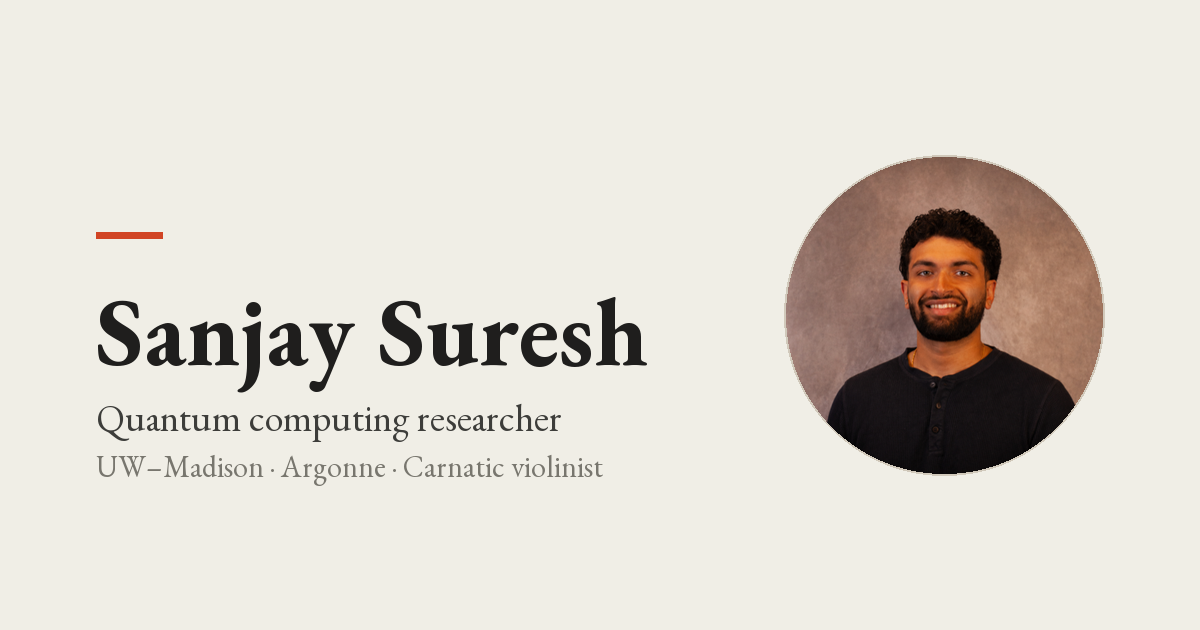
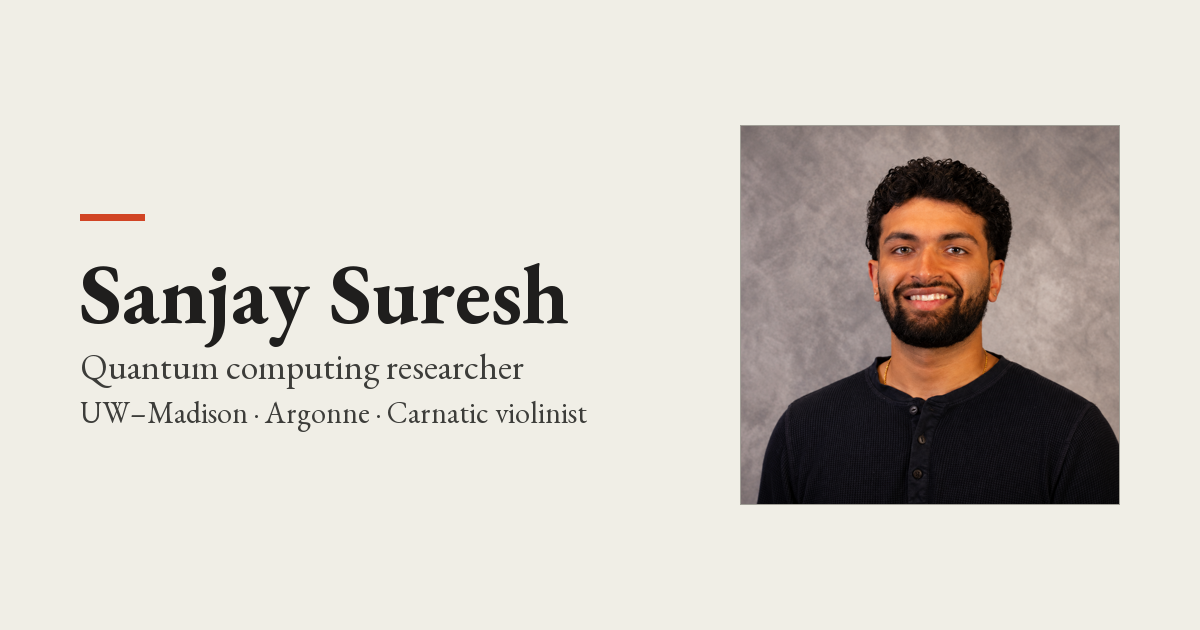
Fix mobile nav (real hamburger toggle for the tree) + regenerate OG image with new headshot; v137

diff --git a/index.html b/index.html
@@ -1,7 +1,7 @@
 <!DOCTYPE html>
 <html lang="en">
 <head>
-  <script>(function(){try{var t=localStorage.getItem('theme')||(window.matchMedia&&window.matchMedia('(prefers-color-scheme:dark)').matches?'dark':'light');document.documentElement.setAttribute('data-theme',t);}catch(e){}})();function setTheme(t){document.documentElement.setAttribute('data-theme',t);try{localStorage.setItem('theme',t);}catch(e){}}function treeKey(n){var a=n.querySelector(':scope > .tree-row > .tree-link');return a?a.getAttribute('href'):null;}function treeSave(){var o=[];document.querySelectorAll('.tree-node.open').forEach(function(n){var k=treeKey(n);if(k)o.push(k);});try{localStorage.setItem('treeOpen',JSON.stringify(o));}catch(e){}}function treeToggle(el){var n=el.closest('.tree-node');if(n){n.classList.toggle('open');treeSave();}}document.addEventListener('DOMContentLoaded',function(){var here=location.pathname;if(here==='/index.html')here='/';var saved=null;try{saved=JSON.parse(localStorage.getItem('treeOpen'));}catch(e){}if(saved&&saved.length){document.querySelectorAll('.tree-node').forEach(function(n){var k=treeKey(n);if(k&&saved.indexOf(k)!==-1)n.classList.add('open');});}else{var r=document.querySelector('.tree > ul > .tree-node');if(r)r.classList.add('open');var ls=document.querySelectorAll('.tree-link'),i;for(i=0;i<ls.length;i++){if(ls[i].getAttribute('href').split('#')[0]===here){var n=ls[i].closest('.tree-node');while(n){n.classList.add('open');n=n.parentElement?n.parentElement.closest('.tree-node'):null;}break;}}treeSave();}var l2=document.querySelectorAll('.tree-link'),j;for(j=0;j<l2.length;j++){if(l2[j].getAttribute('href').split('#')[0]===here){l2[j].classList.add('active');break;}}});</script>
+  <script>(function(){try{var t=localStorage.getItem('theme')||(window.matchMedia&&window.matchMedia('(prefers-color-scheme:dark)').matches?'dark':'light');document.documentElement.setAttribute('data-theme',t);}catch(e){}})();function navToggle(b){var s=b.closest('.sidebar');var o=s.classList.toggle('nav-open');b.setAttribute('aria-expanded',o?'true':'false');}function setTheme(t){document.documentElement.setAttribute('data-theme',t);try{localStorage.setItem('theme',t);}catch(e){}}function treeKey(n){var a=n.querySelector(':scope > .tree-row > .tree-link');return a?a.getAttribute('href'):null;}function treeSave(){var o=[];document.querySelectorAll('.tree-node.open').forEach(function(n){var k=treeKey(n);if(k)o.push(k);});try{localStorage.setItem('treeOpen',JSON.stringify(o));}catch(e){}}function treeToggle(el){var n=el.closest('.tree-node');if(n){n.classList.toggle('open');treeSave();}}document.addEventListener('DOMContentLoaded',function(){var here=location.pathname;if(here==='/index.html')here='/';var saved=null;try{saved=JSON.parse(localStorage.getItem('treeOpen'));}catch(e){}if(saved&&saved.length){document.querySelectorAll('.tree-node').forEach(function(n){var k=treeKey(n);if(k&&saved.indexOf(k)!==-1)n.classList.add('open');});}else{var r=document.querySelector('.tree > ul > .tree-node');if(r)r.classList.add('open');var ls=document.querySelectorAll('.tree-link'),i;for(i=0;i<ls.length;i++){if(ls[i].getAttribute('href').split('#')[0]===here){var n=ls[i].closest('.tree-node');while(n){n.classList.add('open');n=n.parentElement?n.parentElement.closest('.tree-node'):null;}break;}}treeSave();}var l2=document.querySelectorAll('.tree-link'),j;for(j=0;j<l2.length;j++){if(l2[j].getAttribute('href').split('#')[0]===here){l2[j].classList.add('active');break;}}});</script>
   <meta charset="UTF-8" />
   <meta name="viewport" content="width=device-width, initial-scale=1.0" />
   <title>Sanjay Suresh</title>
@@ -16,12 +16,13 @@
   <link rel="icon" href="/favicon.svg" type="image/svg+xml" />
   <link rel="preload" href="/fonts/garamond-regular.woff2" as="font" type="font/woff2" crossorigin />
   <link rel="preload" href="/fonts/garamond-bold.woff2" as="font" type="font/woff2" crossorigin />
-  <link rel="stylesheet" href="style.css?v=136" />
+  <link rel="stylesheet" href="style.css?v=137" />
 </head>
 <body class="p-home">
 
   <!-- Top navigation -->
   <aside class="sidebar">
+      <button class="nav-toggle" type="button" aria-label="Toggle menu" aria-expanded="false" onclick="navToggle(this)"><svg viewBox="0 0 24 24" width="22" height="22" fill="none" stroke="currentColor" stroke-width="2" stroke-linecap="round" aria-hidden="true"><path d="M4 7h16M4 12h16M4 17h16"/></svg>Menu</button>
             <nav class="tree" aria-label="Site tree">
         <ul>
           <li class="tree-node"><div class="tree-row"><button class="tree-toggle" type="button" onclick="treeToggle(this)" aria-label="Toggle"></button><a class="tree-link" href="/">Home</a></div>

diff --git a/projects/surfacescope.html b/projects/surfacescope.html
@@ -1,7 +1,7 @@
 <!DOCTYPE html>
 <html lang="en">
 <head>
-  <script>(function(){try{var t=localStorage.getItem('theme')||(window.matchMedia&&window.matchMedia('(prefers-color-scheme:dark)').matches?'dark':'light');document.documentElement.setAttribute('data-theme',t);}catch(e){}})();function setTheme(t){document.documentElement.setAttribute('data-theme',t);try{localStorage.setItem('theme',t);}catch(e){}}function treeKey(n){var a=n.querySelector(':scope > .tree-row > .tree-link');return a?a.getAttribute('href'):null;}function treeSave(){var o=[];document.querySelectorAll('.tree-node.open').forEach(function(n){var k=treeKey(n);if(k)o.push(k);});try{localStorage.setItem('treeOpen',JSON.stringify(o));}catch(e){}}function treeToggle(el){var n=el.closest('.tree-node');if(n){n.classList.toggle('open');treeSave();}}document.addEventListener('DOMContentLoaded',function(){var here=location.pathname;if(here==='/index.html')here='/';var saved=null;try{saved=JSON.parse(localStorage.getItem('treeOpen'));}catch(e){}if(saved&&saved.length){document.querySelectorAll('.tree-node').forEach(function(n){var k=treeKey(n);if(k&&saved.indexOf(k)!==-1)n.classList.add('open');});}else{var r=document.querySelector('.tree > ul > .tree-node');if(r)r.classList.add('open');var ls=document.querySelectorAll('.tree-link'),i;for(i=0;i<ls.length;i++){if(ls[i].getAttribute('href').split('#')[0]===here){var n=ls[i].closest('.tree-node');while(n){n.classList.add('open');n=n.parentElement?n.parentElement.closest('.tree-node'):null;}break;}}treeSave();}var l2=document.querySelectorAll('.tree-link'),j;for(j=0;j<l2.length;j++){if(l2[j].getAttribute('href').split('#')[0]===here){l2[j].classList.add('active');break;}}});</script>
+  <script>(function(){try{var t=localStorage.getItem('theme')||(window.matchMedia&&window.matchMedia('(prefers-color-scheme:dark)').matches?'dark':'light');document.documentElement.setAttribute('data-theme',t);}catch(e){}})();function navToggle(b){var s=b.closest('.sidebar');var o=s.classList.toggle('nav-open');b.setAttribute('aria-expanded',o?'true':'false');}function setTheme(t){document.documentElement.setAttribute('data-theme',t);try{localStorage.setItem('theme',t);}catch(e){}}function treeKey(n){var a=n.querySelector(':scope > .tree-row > .tree-link');return a?a.getAttribute('href'):null;}function treeSave(){var o=[];document.querySelectorAll('.tree-node.open').forEach(function(n){var k=treeKey(n);if(k)o.push(k);});try{localStorage.setItem('treeOpen',JSON.stringify(o));}catch(e){}}function treeToggle(el){var n=el.closest('.tree-node');if(n){n.classList.toggle('open');treeSave();}}document.addEventListener('DOMContentLoaded',function(){var here=location.pathname;if(here==='/index.html')here='/';var saved=null;try{saved=JSON.parse(localStorage.getItem('treeOpen'));}catch(e){}if(saved&&saved.length){document.querySelectorAll('.tree-node').forEach(function(n){var k=treeKey(n);if(k&&saved.indexOf(k)!==-1)n.classList.add('open');});}else{var r=document.querySelector('.tree > ul > .tree-node');if(r)r.classList.add('open');var ls=document.querySelectorAll('.tree-link'),i;for(i=0;i<ls.length;i++){if(ls[i].getAttribute('href').split('#')[0]===here){var n=ls[i].closest('.tree-node');while(n){n.classList.add('open');n=n.parentElement?n.parentElement.closest('.tree-node'):null;}break;}}treeSave();}var l2=document.querySelectorAll('.tree-link'),j;for(j=0;j<l2.length;j++){if(l2[j].getAttribute('href').split('#')[0]===here){l2[j].classList.add('active');break;}}});</script>
   <meta charset="UTF-8" />
   <meta name="viewport" content="width=device-width, initial-scale=1.0" />
   <title>SurfaceScope · Sanjay Suresh</title>
@@ -16,11 +16,12 @@
   <link rel="icon" href="/favicon.svg" type="image/svg+xml" />
   <link rel="preload" href="/fonts/garamond-regular.woff2" as="font" type="font/woff2" crossorigin />
   <link rel="preload" href="/fonts/garamond-bold.woff2" as="font" type="font/woff2" crossorigin />
-  <link rel="stylesheet" href="../style.css?v=136" />
+  <link rel="stylesheet" href="../style.css?v=137" />
 </head>
 <body class="p-projects">
 
   <aside class="sidebar">
+      <button class="nav-toggle" type="button" aria-label="Toggle menu" aria-expanded="false" onclick="navToggle(this)"><svg viewBox="0 0 24 24" width="22" height="22" fill="none" stroke="currentColor" stroke-width="2" stroke-linecap="round" aria-hidden="true"><path d="M4 7h16M4 12h16M4 17h16"/></svg>Menu</button>
             <nav class="tree" aria-label="Site tree">
         <ul>
           <li class="tree-node"><div class="tree-row"><button class="tree-toggle" type="button" onclick="treeToggle(this)" aria-label="Toggle"></button><a class="tree-link" href="/">Home</a></div>

diff --git a/projects/studia.html b/projects/studia.html
@@ -1,7 +1,7 @@
 <!DOCTYPE html>
 <html lang="en">
 <head>
-  <script>(function(){try{var t=localStorage.getItem('theme')||(window.matchMedia&&window.matchMedia('(prefers-color-scheme:dark)').matches?'dark':'light');document.documentElement.setAttribute('data-theme',t);}catch(e){}})();function setTheme(t){document.documentElement.setAttribute('data-theme',t);try{localStorage.setItem('theme',t);}catch(e){}}function treeKey(n){var a=n.querySelector(':scope > .tree-row > .tree-link');return a?a.getAttribute('href'):null;}function treeSave(){var o=[];document.querySelectorAll('.tree-node.open').forEach(function(n){var k=treeKey(n);if(k)o.push(k);});try{localStorage.setItem('treeOpen',JSON.stringify(o));}catch(e){}}function treeToggle(el){var n=el.closest('.tree-node');if(n){n.classList.toggle('open');treeSave();}}document.addEventListener('DOMContentLoaded',function(){var here=location.pathname;if(here==='/index.html')here='/';var saved=null;try{saved=JSON.parse(localStorage.getItem('treeOpen'));}catch(e){}if(saved&&saved.length){document.querySelectorAll('.tree-node').forEach(function(n){var k=treeKey(n);if(k&&saved.indexOf(k)!==-1)n.classList.add('open');});}else{var r=document.querySelector('.tree > ul > .tree-node');if(r)r.classList.add('open');var ls=document.querySelectorAll('.tree-link'),i;for(i=0;i<ls.length;i++){if(ls[i].getAttribute('href').split('#')[0]===here){var n=ls[i].closest('.tree-node');while(n){n.classList.add('open');n=n.parentElement?n.parentElement.closest('.tree-node'):null;}break;}}treeSave();}var l2=document.querySelectorAll('.tree-link'),j;for(j=0;j<l2.length;j++){if(l2[j].getAttribute('href').split('#')[0]===here){l2[j].classList.add('active');break;}}});</script>
+  <script>(function(){try{var t=localStorage.getItem('theme')||(window.matchMedia&&window.matchMedia('(prefers-color-scheme:dark)').matches?'dark':'light');document.documentElement.setAttribute('data-theme',t);}catch(e){}})();function navToggle(b){var s=b.closest('.sidebar');var o=s.classList.toggle('nav-open');b.setAttribute('aria-expanded',o?'true':'false');}function setTheme(t){document.documentElement.setAttribute('data-theme',t);try{localStorage.setItem('theme',t);}catch(e){}}function treeKey(n){var a=n.querySelector(':scope > .tree-row > .tree-link');return a?a.getAttribute('href'):null;}function treeSave(){var o=[];document.querySelectorAll('.tree-node.open').forEach(function(n){var k=treeKey(n);if(k)o.push(k);});try{localStorage.setItem('treeOpen',JSON.stringify(o));}catch(e){}}function treeToggle(el){var n=el.closest('.tree-node');if(n){n.classList.toggle('open');treeSave();}}document.addEventListener('DOMContentLoaded',function(){var here=location.pathname;if(here==='/index.html')here='/';var saved=null;try{saved=JSON.parse(localStorage.getItem('treeOpen'));}catch(e){}if(saved&&saved.length){document.querySelectorAll('.tree-node').forEach(function(n){var k=treeKey(n);if(k&&saved.indexOf(k)!==-1)n.classList.add('open');});}else{var r=document.querySelector('.tree > ul > .tree-node');if(r)r.classList.add('open');var ls=document.querySelectorAll('.tree-link'),i;for(i=0;i<ls.length;i++){if(ls[i].getAttribute('href').split('#')[0]===here){var n=ls[i].closest('.tree-node');while(n){n.classList.add('open');n=n.parentElement?n.parentElement.closest('.tree-node'):null;}break;}}treeSave();}var l2=document.querySelectorAll('.tree-link'),j;for(j=0;j<l2.length;j++){if(l2[j].getAttribute('href').split('#')[0]===here){l2[j].classList.add('active');break;}}});</script>
   <meta charset="UTF-8" />
   <meta name="viewport" content="width=device-width, initial-scale=1.0" />
   <title>Studia · Sanjay Suresh</title>
@@ -16,11 +16,12 @@
   <link rel="icon" href="/favicon.svg" type="image/svg+xml" />
   <link rel="preload" href="/fonts/garamond-regular.woff2" as="font" type="font/woff2" crossorigin />
   <link rel="preload" href="/fonts/garamond-bold.woff2" as="font" type="font/woff2" crossorigin />
-  <link rel="stylesheet" href="../style.css?v=136" />
+  <link rel="stylesheet" href="../style.css?v=137" />
 </head>
 <body class="p-projects">
 
   <aside class="sidebar">
+      <button class="nav-toggle" type="button" aria-label="Toggle menu" aria-expanded="false" onclick="navToggle(this)"><svg viewBox="0 0 24 24" width="22" height="22" fill="none" stroke="currentColor" stroke-width="2" stroke-linecap="round" aria-hidden="true"><path d="M4 7h16M4 12h16M4 17h16"/></svg>Menu</button>
             <nav class="tree" aria-label="Site tree">
         <ul>
           <li class="tree-node"><div class="tree-row"><button class="tree-toggle" type="button" onclick="treeToggle(this)" aria-label="Toggle"></button><a class="tree-link" href="/">Home</a></div>

diff --git a/music.html b/music.html
@@ -1,7 +1,7 @@
 <!DOCTYPE html>
 <html lang="en">
 <head>
-  <script>(function(){try{var t=localStorage.getItem('theme')||(window.matchMedia&&window.matchMedia('(prefers-color-scheme:dark)').matches?'dark':'light');document.documentElement.setAttribute('data-theme',t);}catch(e){}})();function setTheme(t){document.documentElement.setAttribute('data-theme',t);try{localStorage.setItem('theme',t);}catch(e){}}function treeKey(n){var a=n.querySelector(':scope > .tree-row > .tree-link');return a?a.getAttribute('href'):null;}function treeSave(){var o=[];document.querySelectorAll('.tree-node.open').forEach(function(n){var k=treeKey(n);if(k)o.push(k);});try{localStorage.setItem('treeOpen',JSON.stringify(o));}catch(e){}}function treeToggle(el){var n=el.closest('.tree-node');if(n){n.classList.toggle('open');treeSave();}}document.addEventListener('DOMContentLoaded',function(){var here=location.pathname;if(here==='/index.html')here='/';var saved=null;try{saved=JSON.parse(localStorage.getItem('treeOpen'));}catch(e){}if(saved&&saved.length){document.querySelectorAll('.tree-node').forEach(function(n){var k=treeKey(n);if(k&&saved.indexOf(k)!==-1)n.classList.add('open');});}else{var r=document.querySelector('.tree > ul > .tree-node');if(r)r.classList.add('open');var ls=document.querySelectorAll('.tree-link'),i;for(i=0;i<ls.length;i++){if(ls[i].getAttribute('href').split('#')[0]===here){var n=ls[i].closest('.tree-node');while(n){n.classList.add('open');n=n.parentElement?n.parentElement.closest('.tree-node'):null;}break;}}treeSave();}var l2=document.querySelectorAll('.tree-link'),j;for(j=0;j<l2.length;j++){if(l2[j].getAttribute('href').split('#')[0]===here){l2[j].classList.add('active');break;}}});</script>
+  <script>(function(){try{var t=localStorage.getItem('theme')||(window.matchMedia&&window.matchMedia('(prefers-color-scheme:dark)').matches?'dark':'light');document.documentElement.setAttribute('data-theme',t);}catch(e){}})();function navToggle(b){var s=b.closest('.sidebar');var o=s.classList.toggle('nav-open');b.setAttribute('aria-expanded',o?'true':'false');}function setTheme(t){document.documentElement.setAttribute('data-theme',t);try{localStorage.setItem('theme',t);}catch(e){}}function treeKey(n){var a=n.querySelector(':scope > .tree-row > .tree-link');return a?a.getAttribute('href'):null;}function treeSave(){var o=[];document.querySelectorAll('.tree-node.open').forEach(function(n){var k=treeKey(n);if(k)o.push(k);});try{localStorage.setItem('treeOpen',JSON.stringify(o));}catch(e){}}function treeToggle(el){var n=el.closest('.tree-node');if(n){n.classList.toggle('open');treeSave();}}document.addEventListener('DOMContentLoaded',function(){var here=location.pathname;if(here==='/index.html')here='/';var saved=null;try{saved=JSON.parse(localStorage.getItem('treeOpen'));}catch(e){}if(saved&&saved.length){document.querySelectorAll('.tree-node').forEach(function(n){var k=treeKey(n);if(k&&saved.indexOf(k)!==-1)n.classList.add('open');});}else{var r=document.querySelector('.tree > ul > .tree-node');if(r)r.classList.add('open');var ls=document.querySelectorAll('.tree-link'),i;for(i=0;i<ls.length;i++){if(ls[i].getAttribute('href').split('#')[0]===here){var n=ls[i].closest('.tree-node');while(n){n.classList.add('open');n=n.parentElement?n.parentElement.closest('.tree-node'):null;}break;}}treeSave();}var l2=document.querySelectorAll('.tree-link'),j;for(j=0;j<l2.length;j++){if(l2[j].getAttribute('href').split('#')[0]===here){l2[j].classList.add('active');break;}}});</script>
   <meta charset="UTF-8" />
   <meta name="viewport" content="width=device-width, initial-scale=1.0" />
   <title>Carnatic Music · Sanjay Suresh</title>
@@ -16,11 +16,12 @@
   <link rel="icon" href="/favicon.svg" type="image/svg+xml" />
   <link rel="preload" href="/fonts/garamond-regular.woff2" as="font" type="font/woff2" crossorigin />
   <link rel="preload" href="/fonts/garamond-bold.woff2" as="font" type="font/woff2" crossorigin />
-  <link rel="stylesheet" href="style.css?v=136" />
+  <link rel="stylesheet" href="style.css?v=137" />
 </head>
 <body class="p-music">
 
   <aside class="sidebar">
+      <button class="nav-toggle" type="button" aria-label="Toggle menu" aria-expanded="false" onclick="navToggle(this)"><svg viewBox="0 0 24 24" width="22" height="22" fill="none" stroke="currentColor" stroke-width="2" stroke-linecap="round" aria-hidden="true"><path d="M4 7h16M4 12h16M4 17h16"/></svg>Menu</button>
             <nav class="tree" aria-label="Site tree">
         <ul>
           <li class="tree-node"><div class="tree-row"><button class="tree-toggle" type="button" onclick="treeToggle(this)" aria-label="Toggle"></button><a class="tree-link" href="/">Home</a></div>

diff --git a/projects.html b/projects.html
@@ -1,7 +1,7 @@
 <!DOCTYPE html>
 <html lang="en">
 <head>
-  <script>(function(){try{var t=localStorage.getItem('theme')||(window.matchMedia&&window.matchMedia('(prefers-color-scheme:dark)').matches?'dark':'light');document.documentElement.setAttribute('data-theme',t);}catch(e){}})();function setTheme(t){document.documentElement.setAttribute('data-theme',t);try{localStorage.setItem('theme',t);}catch(e){}}function treeKey(n){var a=n.querySelector(':scope > .tree-row > .tree-link');return a?a.getAttribute('href'):null;}function treeSave(){var o=[];document.querySelectorAll('.tree-node.open').forEach(function(n){var k=treeKey(n);if(k)o.push(k);});try{localStorage.setItem('treeOpen',JSON.stringify(o));}catch(e){}}function treeToggle(el){var n=el.closest('.tree-node');if(n){n.classList.toggle('open');treeSave();}}document.addEventListener('DOMContentLoaded',function(){var here=location.pathname;if(here==='/index.html')here='/';var saved=null;try{saved=JSON.parse(localStorage.getItem('treeOpen'));}catch(e){}if(saved&&saved.length){document.querySelectorAll('.tree-node').forEach(function(n){var k=treeKey(n);if(k&&saved.indexOf(k)!==-1)n.classList.add('open');});}else{var r=document.querySelector('.tree > ul > .tree-node');if(r)r.classList.add('open');var ls=document.querySelectorAll('.tree-link'),i;for(i=0;i<ls.length;i++){if(ls[i].getAttribute('href').split('#')[0]===here){var n=ls[i].closest('.tree-node');while(n){n.classList.add('open');n=n.parentElement?n.parentElement.closest('.tree-node'):null;}break;}}treeSave();}var l2=document.querySelectorAll('.tree-link'),j;for(j=0;j<l2.length;j++){if(l2[j].getAttribute('href').split('#')[0]===here){l2[j].classList.add('active');break;}}});</script>
+  <script>(function(){try{var t=localStorage.getItem('theme')||(window.matchMedia&&window.matchMedia('(prefers-color-scheme:dark)').matches?'dark':'light');document.documentElement.setAttribute('data-theme',t);}catch(e){}})();function navToggle(b){var s=b.closest('.sidebar');var o=s.classList.toggle('nav-open');b.setAttribute('aria-expanded',o?'true':'false');}function setTheme(t){document.documentElement.setAttribute('data-theme',t);try{localStorage.setItem('theme',t);}catch(e){}}function treeKey(n){var a=n.querySelector(':scope > .tree-row > .tree-link');return a?a.getAttribute('href'):null;}function treeSave(){var o=[];document.querySelectorAll('.tree-node.open').forEach(function(n){var k=treeKey(n);if(k)o.push(k);});try{localStorage.setItem('treeOpen',JSON.stringify(o));}catch(e){}}function treeToggle(el){var n=el.closest('.tree-node');if(n){n.classList.toggle('open');treeSave();}}document.addEventListener('DOMContentLoaded',function(){var here=location.pathname;if(here==='/index.html')here='/';var saved=null;try{saved=JSON.parse(localStorage.getItem('treeOpen'));}catch(e){}if(saved&&saved.length){document.querySelectorAll('.tree-node').forEach(function(n){var k=treeKey(n);if(k&&saved.indexOf(k)!==-1)n.classList.add('open');});}else{var r=document.querySelector('.tree > ul > .tree-node');if(r)r.classList.add('open');var ls=document.querySelectorAll('.tree-link'),i;for(i=0;i<ls.length;i++){if(ls[i].getAttribute('href').split('#')[0]===here){var n=ls[i].closest('.tree-node');while(n){n.classList.add('open');n=n.parentElement?n.parentElement.closest('.tree-node'):null;}break;}}treeSave();}var l2=document.querySelectorAll('.tree-link'),j;for(j=0;j<l2.length;j++){if(l2[j].getAttribute('href').split('#')[0]===here){l2[j].classList.add('active');break;}}});</script>
   <meta charset="UTF-8" />
   <meta name="viewport" content="width=device-width, initial-scale=1.0" />
   <title>Projects · Sanjay Suresh</title>
@@ -16,11 +16,12 @@
   <link rel="icon" href="/favicon.svg" type="image/svg+xml" />
   <link rel="preload" href="/fonts/garamond-regular.woff2" as="font" type="font/woff2" crossorigin />
   <link rel="preload" href="/fonts/garamond-bold.woff2" as="font" type="font/woff2" crossorigin />
-  <link rel="stylesheet" href="style.css?v=136" />
+  <link rel="stylesheet" href="style.css?v=137" />
 </head>
 <body class="p-projects">
 
   <aside class="sidebar">
+      <button class="nav-toggle" type="button" aria-label="Toggle menu" aria-expanded="false" onclick="navToggle(this)"><svg viewBox="0 0 24 24" width="22" height="22" fill="none" stroke="currentColor" stroke-width="2" stroke-linecap="round" aria-hidden="true"><path d="M4 7h16M4 12h16M4 17h16"/></svg>Menu</button>
             <nav class="tree" aria-label="Site tree">
         <ul>
           <li class="tree-node"><div class="tree-row"><button class="tree-toggle" type="button" onclick="treeToggle(this)" aria-label="Toggle"></button><a class="tree-link" href="/">Home</a></div>

diff --git a/research.html b/research.html
@@ -1,7 +1,7 @@
 <!DOCTYPE html>
 <html lang="en">
 <head>
-  <script>(function(){try{var t=localStorage.getItem('theme')||(window.matchMedia&&window.matchMedia('(prefers-color-scheme:dark)').matches?'dark':'light');document.documentElement.setAttribute('data-theme',t);}catch(e){}})();function setTheme(t){document.documentElement.setAttribute('data-theme',t);try{localStorage.setItem('theme',t);}catch(e){}}function treeKey(n){var a=n.querySelector(':scope > .tree-row > .tree-link');return a?a.getAttribute('href'):null;}function treeSave(){var o=[];document.querySelectorAll('.tree-node.open').forEach(function(n){var k=treeKey(n);if(k)o.push(k);});try{localStorage.setItem('treeOpen',JSON.stringify(o));}catch(e){}}function treeToggle(el){var n=el.closest('.tree-node');if(n){n.classList.toggle('open');treeSave();}}document.addEventListener('DOMContentLoaded',function(){var here=location.pathname;if(here==='/index.html')here='/';var saved=null;try{saved=JSON.parse(localStorage.getItem('treeOpen'));}catch(e){}if(saved&&saved.length){document.querySelectorAll('.tree-node').forEach(function(n){var k=treeKey(n);if(k&&saved.indexOf(k)!==-1)n.classList.add('open');});}else{var r=document.querySelector('.tree > ul > .tree-node');if(r)r.classList.add('open');var ls=document.querySelectorAll('.tree-link'),i;for(i=0;i<ls.length;i++){if(ls[i].getAttribute('href').split('#')[0]===here){var n=ls[i].closest('.tree-node');while(n){n.classList.add('open');n=n.parentElement?n.parentElement.closest('.tree-node'):null;}break;}}treeSave();}var l2=document.querySelectorAll('.tree-link'),j;for(j=0;j<l2.length;j++){if(l2[j].getAttribute('href').split('#')[0]===here){l2[j].classList.add('active');break;}}});</script>
+  <script>(function(){try{var t=localStorage.getItem('theme')||(window.matchMedia&&window.matchMedia('(prefers-color-scheme:dark)').matches?'dark':'light');document.documentElement.setAttribute('data-theme',t);}catch(e){}})();function navToggle(b){var s=b.closest('.sidebar');var o=s.classList.toggle('nav-open');b.setAttribute('aria-expanded',o?'true':'false');}function setTheme(t){document.documentElement.setAttribute('data-theme',t);try{localStorage.setItem('theme',t);}catch(e){}}function treeKey(n){var a=n.querySelector(':scope > .tree-row > .tree-link');return a?a.getAttribute('href'):null;}function treeSave(){var o=[];document.querySelectorAll('.tree-node.open').forEach(function(n){var k=treeKey(n);if(k)o.push(k);});try{localStorage.setItem('treeOpen',JSON.stringify(o));}catch(e){}}function treeToggle(el){var n=el.closest('.tree-node');if(n){n.classList.toggle('open');treeSave();}}document.addEventListener('DOMContentLoaded',function(){var here=location.pathname;if(here==='/index.html')here='/';var saved=null;try{saved=JSON.parse(localStorage.getItem('treeOpen'));}catch(e){}if(saved&&saved.length){document.querySelectorAll('.tree-node').forEach(function(n){var k=treeKey(n);if(k&&saved.indexOf(k)!==-1)n.classList.add('open');});}else{var r=document.querySelector('.tree > ul > .tree-node');if(r)r.classList.add('open');var ls=document.querySelectorAll('.tree-link'),i;for(i=0;i<ls.length;i++){if(ls[i].getAttribute('href').split('#')[0]===here){var n=ls[i].closest('.tree-node');while(n){n.classList.add('open');n=n.parentElement?n.parentElement.closest('.tree-node'):null;}break;}}treeSave();}var l2=document.querySelectorAll('.tree-link'),j;for(j=0;j<l2.length;j++){if(l2[j].getAttribute('href').split('#')[0]===here){l2[j].classList.add('active');break;}}});</script>
   <meta charset="UTF-8" />
   <meta name="viewport" content="width=device-width, initial-scale=1.0" />
   <title>Research · Sanjay Suresh</title>
@@ -16,11 +16,12 @@
   <link rel="icon" href="/favicon.svg" type="image/svg+xml" />
   <link rel="preload" href="/fonts/garamond-regular.woff2" as="font" type="font/woff2" crossorigin />
   <link rel="preload" href="/fonts/garamond-bold.woff2" as="font" type="font/woff2" crossorigin />
-  <link rel="stylesheet" href="style.css?v=136" />
+  <link rel="stylesheet" href="style.css?v=137" />
 </head>
 <body class="p-research">
 
   <aside class="sidebar">
+      <button class="nav-toggle" type="button" aria-label="Toggle menu" aria-expanded="false" onclick="navToggle(this)"><svg viewBox="0 0 24 24" width="22" height="22" fill="none" stroke="currentColor" stroke-width="2" stroke-linecap="round" aria-hidden="true"><path d="M4 7h16M4 12h16M4 17h16"/></svg>Menu</button>
             <nav class="tree" aria-label="Site tree">
         <ul>
           <li class="tree-node"><div class="tree-row"><button class="tree-toggle" type="button" onclick="treeToggle(this)" aria-label="Toggle"></button><a class="tree-link" href="/">Home</a></div>

diff --git a/404.html b/404.html
@@ -1,7 +1,7 @@
 <!DOCTYPE html>
 <html lang="en">
 <head>
-  <script>(function(){try{var t=localStorage.getItem('theme')||(window.matchMedia&&window.matchMedia('(prefers-color-scheme:dark)').matches?'dark':'light');document.documentElement.setAttribute('data-theme',t);}catch(e){}})();function setTheme(t){document.documentElement.setAttribute('data-theme',t);try{localStorage.setItem('theme',t);}catch(e){}}function treeKey(n){var a=n.querySelector(':scope > .tree-row > .tree-link');return a?a.getAttribute('href'):null;}function treeSave(){var o=[];document.querySelectorAll('.tree-node.open').forEach(function(n){var k=treeKey(n);if(k)o.push(k);});try{localStorage.setItem('treeOpen',JSON.stringify(o));}catch(e){}}function treeToggle(el){var n=el.closest('.tree-node');if(n){n.classList.toggle('open');treeSave();}}document.addEventListener('DOMContentLoaded',function(){var here=location.pathname;if(here==='/index.html')here='/';var saved=null;try{saved=JSON.parse(localStorage.getItem('treeOpen'));}catch(e){}if(saved&&saved.length){document.querySelectorAll('.tree-node').forEach(function(n){var k=treeKey(n);if(k&&saved.indexOf(k)!==-1)n.classList.add('open');});}else{var r=document.querySelector('.tree > ul > .tree-node');if(r)r.classList.add('open');var ls=document.querySelectorAll('.tree-link'),i;for(i=0;i<ls.length;i++){if(ls[i].getAttribute('href').split('#')[0]===here){var n=ls[i].closest('.tree-node');while(n){n.classList.add('open');n=n.parentElement?n.parentElement.closest('.tree-node'):null;}break;}}treeSave();}var l2=document.querySelectorAll('.tree-link'),j;for(j=0;j<l2.length;j++){if(l2[j].getAttribute('href').split('#')[0]===here){l2[j].classList.add('active');break;}}});</script>
+  <script>(function(){try{var t=localStorage.getItem('theme')||(window.matchMedia&&window.matchMedia('(prefers-color-scheme:dark)').matches?'dark':'light');document.documentElement.setAttribute('data-theme',t);}catch(e){}})();function navToggle(b){var s=b.closest('.sidebar');var o=s.classList.toggle('nav-open');b.setAttribute('aria-expanded',o?'true':'false');}function setTheme(t){document.documentElement.setAttribute('data-theme',t);try{localStorage.setItem('theme',t);}catch(e){}}function treeKey(n){var a=n.querySelector(':scope > .tree-row > .tree-link');return a?a.getAttribute('href'):null;}function treeSave(){var o=[];document.querySelectorAll('.tree-node.open').forEach(function(n){var k=treeKey(n);if(k)o.push(k);});try{localStorage.setItem('treeOpen',JSON.stringify(o));}catch(e){}}function treeToggle(el){var n=el.closest('.tree-node');if(n){n.classList.toggle('open');treeSave();}}document.addEventListener('DOMContentLoaded',function(){var here=location.pathname;if(here==='/index.html')here='/';var saved=null;try{saved=JSON.parse(localStorage.getItem('treeOpen'));}catch(e){}if(saved&&saved.length){document.querySelectorAll('.tree-node').forEach(function(n){var k=treeKey(n);if(k&&saved.indexOf(k)!==-1)n.classList.add('open');});}else{var r=document.querySelector('.tree > ul > .tree-node');if(r)r.classList.add('open');var ls=document.querySelectorAll('.tree-link'),i;for(i=0;i<ls.length;i++){if(ls[i].getAttribute('href').split('#')[0]===here){var n=ls[i].closest('.tree-node');while(n){n.classList.add('open');n=n.parentElement?n.parentElement.closest('.tree-node'):null;}break;}}treeSave();}var l2=document.querySelectorAll('.tree-link'),j;for(j=0;j<l2.length;j++){if(l2[j].getAttribute('href').split('#')[0]===here){l2[j].classList.add('active');break;}}});</script>
   <meta charset="UTF-8" />
   <meta name="robots" content="noindex" />
   <meta name="viewport" content="width=device-width, initial-scale=1.0" />
@@ -17,11 +17,12 @@
   <link rel="icon" href="/favicon.svg" type="image/svg+xml" />
   <link rel="preload" href="/fonts/garamond-regular.woff2" as="font" type="font/woff2" crossorigin />
   <link rel="preload" href="/fonts/garamond-bold.woff2" as="font" type="font/woff2" crossorigin />
-  <link rel="stylesheet" href="/style.css?v=136" />
+  <link rel="stylesheet" href="/style.css?v=137" />
 </head>
 <body class="p-notes">
 
   <aside class="sidebar">
+      <button class="nav-toggle" type="button" aria-label="Toggle menu" aria-expanded="false" onclick="navToggle(this)"><svg viewBox="0 0 24 24" width="22" height="22" fill="none" stroke="currentColor" stroke-width="2" stroke-linecap="round" aria-hidden="true"><path d="M4 7h16M4 12h16M4 17h16"/></svg>Menu</button>
             <nav class="tree" aria-label="Site tree">
         <ul>
           <li class="tree-node"><div class="tree-row"><button class="tree-toggle" type="button" onclick="treeToggle(this)" aria-label="Toggle"></button><a class="tree-link" href="/">Home</a></div>

diff --git a/writing.html b/writing.html
@@ -1,7 +1,7 @@
 <!DOCTYPE html>
 <html lang="en">
 <head>
-  <script>(function(){try{var t=localStorage.getItem('theme')||(window.matchMedia&&window.matchMedia('(prefers-color-scheme:dark)').matches?'dark':'light');document.documentElement.setAttribute('data-theme',t);}catch(e){}})();function setTheme(t){document.documentElement.setAttribute('data-theme',t);try{localStorage.setItem('theme',t);}catch(e){}}function treeKey(n){var a=n.querySelector(':scope > .tree-row > .tree-link');return a?a.getAttribute('href'):null;}function treeSave(){var o=[];document.querySelectorAll('.tree-node.open').forEach(function(n){var k=treeKey(n);if(k)o.push(k);});try{localStorage.setItem('treeOpen',JSON.stringify(o));}catch(e){}}function treeToggle(el){var n=el.closest('.tree-node');if(n){n.classList.toggle('open');treeSave();}}document.addEventListener('DOMContentLoaded',function(){var here=location.pathname;if(here==='/index.html')here='/';var saved=null;try{saved=JSON.parse(localStorage.getItem('treeOpen'));}catch(e){}if(saved&&saved.length){document.querySelectorAll('.tree-node').forEach(function(n){var k=treeKey(n);if(k&&saved.indexOf(k)!==-1)n.classList.add('open');});}else{var r=document.querySelector('.tree > ul > .tree-node');if(r)r.classList.add('open');var ls=document.querySelectorAll('.tree-link'),i;for(i=0;i<ls.length;i++){if(ls[i].getAttribute('href').split('#')[0]===here){var n=ls[i].closest('.tree-node');while(n){n.classList.add('open');n=n.parentElement?n.parentElement.closest('.tree-node'):null;}break;}}treeSave();}var l2=document.querySelectorAll('.tree-link'),j;for(j=0;j<l2.length;j++){if(l2[j].getAttribute('href').split('#')[0]===here){l2[j].classList.add('active');break;}}});</script>
+  <script>(function(){try{var t=localStorage.getItem('theme')||(window.matchMedia&&window.matchMedia('(prefers-color-scheme:dark)').matches?'dark':'light');document.documentElement.setAttribute('data-theme',t);}catch(e){}})();function navToggle(b){var s=b.closest('.sidebar');var o=s.classList.toggle('nav-open');b.setAttribute('aria-expanded',o?'true':'false');}function setTheme(t){document.documentElement.setAttribute('data-theme',t);try{localStorage.setItem('theme',t);}catch(e){}}function treeKey(n){var a=n.querySelector(':scope > .tree-row > .tree-link');return a?a.getAttribute('href'):null;}function treeSave(){var o=[];document.querySelectorAll('.tree-node.open').forEach(function(n){var k=treeKey(n);if(k)o.push(k);});try{localStorage.setItem('treeOpen',JSON.stringify(o));}catch(e){}}function treeToggle(el){var n=el.closest('.tree-node');if(n){n.classList.toggle('open');treeSave();}}document.addEventListener('DOMContentLoaded',function(){var here=location.pathname;if(here==='/index.html')here='/';var saved=null;try{saved=JSON.parse(localStorage.getItem('treeOpen'));}catch(e){}if(saved&&saved.length){document.querySelectorAll('.tree-node').forEach(function(n){var k=treeKey(n);if(k&&saved.indexOf(k)!==-1)n.classList.add('open');});}else{var r=document.querySelector('.tree > ul > .tree-node');if(r)r.classList.add('open');var ls=document.querySelectorAll('.tree-link'),i;for(i=0;i<ls.length;i++){if(ls[i].getAttribute('href').split('#')[0]===here){var n=ls[i].closest('.tree-node');while(n){n.classList.add('open');n=n.parentElement?n.parentElement.closest('.tree-node'):null;}break;}}treeSave();}var l2=document.querySelectorAll('.tree-link'),j;for(j=0;j<l2.length;j++){if(l2[j].getAttribute('href').split('#')[0]===here){l2[j].classList.add('active');break;}}});</script>
   <meta charset="UTF-8" />
   <meta name="viewport" content="width=device-width, initial-scale=1.0" />
   <title>Writing · Sanjay Suresh</title>
@@ -16,11 +16,12 @@
   <link rel="icon" href="/favicon.svg" type="image/svg+xml" />
   <link rel="preload" href="/fonts/garamond-regular.woff2" as="font" type="font/woff2" crossorigin />
   <link rel="preload" href="/fonts/garamond-bold.woff2" as="font" type="font/woff2" crossorigin />
-  <link rel="stylesheet" href="style.css?v=136" />
+  <link rel="stylesheet" href="style.css?v=137" />
 </head>
 <body class="p-writing">
 
   <aside class="sidebar">
+      <button class="nav-toggle" type="button" aria-label="Toggle menu" aria-expanded="false" onclick="navToggle(this)"><svg viewBox="0 0 24 24" width="22" height="22" fill="none" stroke="currentColor" stroke-width="2" stroke-linecap="round" aria-hidden="true"><path d="M4 7h16M4 12h16M4 17h16"/></svg>Menu</button>
             <nav class="tree" aria-label="Site tree">
         <ul>
           <li class="tree-node"><div class="tree-row"><button class="tree-toggle" type="button" onclick="treeToggle(this)" aria-label="Toggle"></button><a class="tree-link" href="/">Home</a></div>

diff --git a/notes.html b/notes.html
@@ -1,7 +1,7 @@
 <!DOCTYPE html>
 <html lang="en">
 <head>
-  <script>(function(){try{var t=localStorage.getItem('theme')||(window.matchMedia&&window.matchMedia('(prefers-color-scheme:dark)').matches?'dark':'light');document.documentElement.setAttribute('data-theme',t);}catch(e){}})();function setTheme(t){document.documentElement.setAttribute('data-theme',t);try{localStorage.setItem('theme',t);}catch(e){}}function treeKey(n){var a=n.querySelector(':scope > .tree-row > .tree-link');return a?a.getAttribute('href'):null;}function treeSave(){var o=[];document.querySelectorAll('.tree-node.open').forEach(function(n){var k=treeKey(n);if(k)o.push(k);});try{localStorage.setItem('treeOpen',JSON.stringify(o));}catch(e){}}function treeToggle(el){var n=el.closest('.tree-node');if(n){n.classList.toggle('open');treeSave();}}document.addEventListener('DOMContentLoaded',function(){var here=location.pathname;if(here==='/index.html')here='/';var saved=null;try{saved=JSON.parse(localStorage.getItem('treeOpen'));}catch(e){}if(saved&&saved.length){document.querySelectorAll('.tree-node').forEach(function(n){var k=treeKey(n);if(k&&saved.indexOf(k)!==-1)n.classList.add('open');});}else{var r=document.querySelector('.tree > ul > .tree-node');if(r)r.classList.add('open');var ls=document.querySelectorAll('.tree-link'),i;for(i=0;i<ls.length;i++){if(ls[i].getAttribute('href').split('#')[0]===here){var n=ls[i].closest('.tree-node');while(n){n.classList.add('open');n=n.parentElement?n.parentElement.closest('.tree-node'):null;}break;}}treeSave();}var l2=document.querySelectorAll('.tree-link'),j;for(j=0;j<l2.length;j++){if(l2[j].getAttribute('href').split('#')[0]===here){l2[j].classList.add('active');break;}}});</script>
+  <script>(function(){try{var t=localStorage.getItem('theme')||(window.matchMedia&&window.matchMedia('(prefers-color-scheme:dark)').matches?'dark':'light');document.documentElement.setAttribute('data-theme',t);}catch(e){}})();function navToggle(b){var s=b.closest('.sidebar');var o=s.classList.toggle('nav-open');b.setAttribute('aria-expanded',o?'true':'false');}function setTheme(t){document.documentElement.setAttribute('data-theme',t);try{localStorage.setItem('theme',t);}catch(e){}}function treeKey(n){var a=n.querySelector(':scope > .tree-row > .tree-link');return a?a.getAttribute('href'):null;}function treeSave(){var o=[];document.querySelectorAll('.tree-node.open').forEach(function(n){var k=treeKey(n);if(k)o.push(k);});try{localStorage.setItem('treeOpen',JSON.stringify(o));}catch(e){}}function treeToggle(el){var n=el.closest('.tree-node');if(n){n.classList.toggle('open');treeSave();}}document.addEventListener('DOMContentLoaded',function(){var here=location.pathname;if(here==='/index.html')here='/';var saved=null;try{saved=JSON.parse(localStorage.getItem('treeOpen'));}catch(e){}if(saved&&saved.length){document.querySelectorAll('.tree-node').forEach(function(n){var k=treeKey(n);if(k&&saved.indexOf(k)!==-1)n.classList.add('open');});}else{var r=document.querySelector('.tree > ul > .tree-node');if(r)r.classList.add('open');var ls=document.querySelectorAll('.tree-link'),i;for(i=0;i<ls.length;i++){if(ls[i].getAttribute('href').split('#')[0]===here){var n=ls[i].closest('.tree-node');while(n){n.classList.add('open');n=n.parentElement?n.parentElement.closest('.tree-node'):null;}break;}}treeSave();}var l2=document.querySelectorAll('.tree-link'),j;for(j=0;j<l2.length;j++){if(l2[j].getAttribute('href').split('#')[0]===here){l2[j].classList.add('active');break;}}});</script>
   <meta charset="UTF-8" />
   <meta name="viewport" content="width=device-width, initial-scale=1.0" />
   <title>Notes · Sanjay Suresh</title>
@@ -16,11 +16,12 @@
   <link rel="icon" href="/favicon.svg" type="image/svg+xml" />
   <link rel="preload" href="/fonts/garamond-regular.woff2" as="font" type="font/woff2" crossorigin />
   <link rel="preload" href="/fonts/garamond-bold.woff2" as="font" type="font/woff2" crossorigin />
-  <link rel="stylesheet" href="style.css?v=136" />
+  <link rel="stylesheet" href="style.css?v=137" />
 </head>
 <body class="p-notes">
 
   <aside class="sidebar">
+      <button class="nav-toggle" type="button" aria-label="Toggle menu" aria-expanded="false" onclick="navToggle(this)"><svg viewBox="0 0 24 24" width="22" height="22" fill="none" stroke="currentColor" stroke-width="2" stroke-linecap="round" aria-hidden="true"><path d="M4 7h16M4 12h16M4 17h16"/></svg>Menu</button>
             <nav class="tree" aria-label="Site tree">
         <ul>
           <li class="tree-node"><div class="tree-row"><button class="tree-toggle" type="button" onclick="treeToggle(this)" aria-label="Toggle"></button><a class="tree-link" href="/">Home</a></div>

diff --git a/style.css b/style.css
@@ -303,16 +303,18 @@ footer {
 
 main { flex: 1; min-width: 0; }
 
+.nav-toggle { display: none; align-items: center; gap: 0.5rem; background: none; border: 0; color: var(--text); font-family: var(--font-body); font-size: 1.05rem; line-height: 1; cursor: pointer; padding: 0; }
 @media (max-width: 820px) {
-  body { flex-direction: column; }
+  body { flex-direction: column; align-items: stretch; }
   .sidebar {
-    width: 100%; min-width: 0; height: auto; position: static;
-    border: none;
-    flex-direction: row; align-items: center; flex-wrap: wrap;
-    gap: 0.4rem 1rem; padding: 0.9rem 1.25rem;
+    position: static; width: 100%; min-width: 0; height: auto;
+    flex-direction: column; overflow: visible;
+    padding: 0.85rem 1.25rem; border-bottom: 1px solid var(--border);
   }
-  .sidebar .site-name { margin-bottom: 0; margin-right: auto; }
-  .sidebar-nav { flex-direction: row; flex-wrap: wrap; gap: 0.4rem 0.9rem; }
+  .nav-toggle { display: inline-flex; }
+  .sidebar .tree, .sidebar .theme-switch { display: none; }
+  .sidebar.nav-open .tree { display: block; margin-top: 0.75rem; }
+  .sidebar.nav-open .theme-switch { display: flex; margin-top: 0.75rem; }
 }
 
 /* Icon theme toggle */
